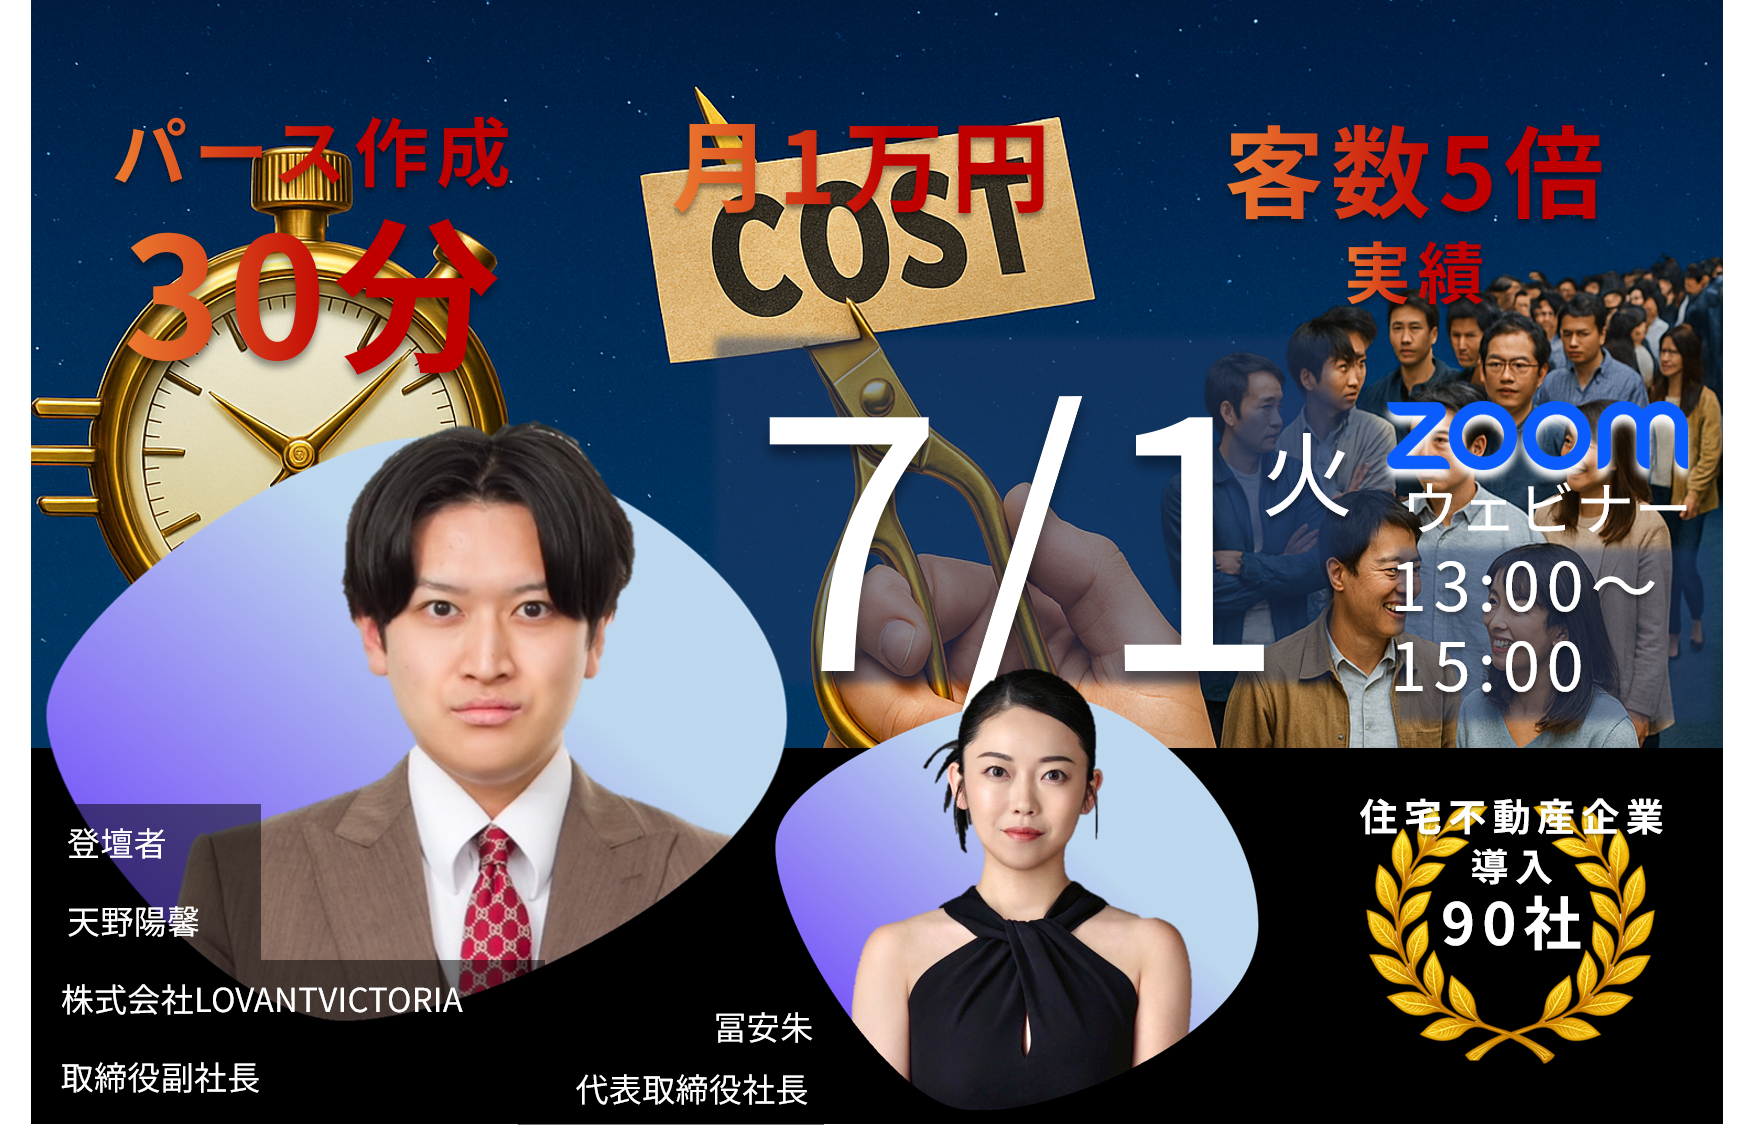
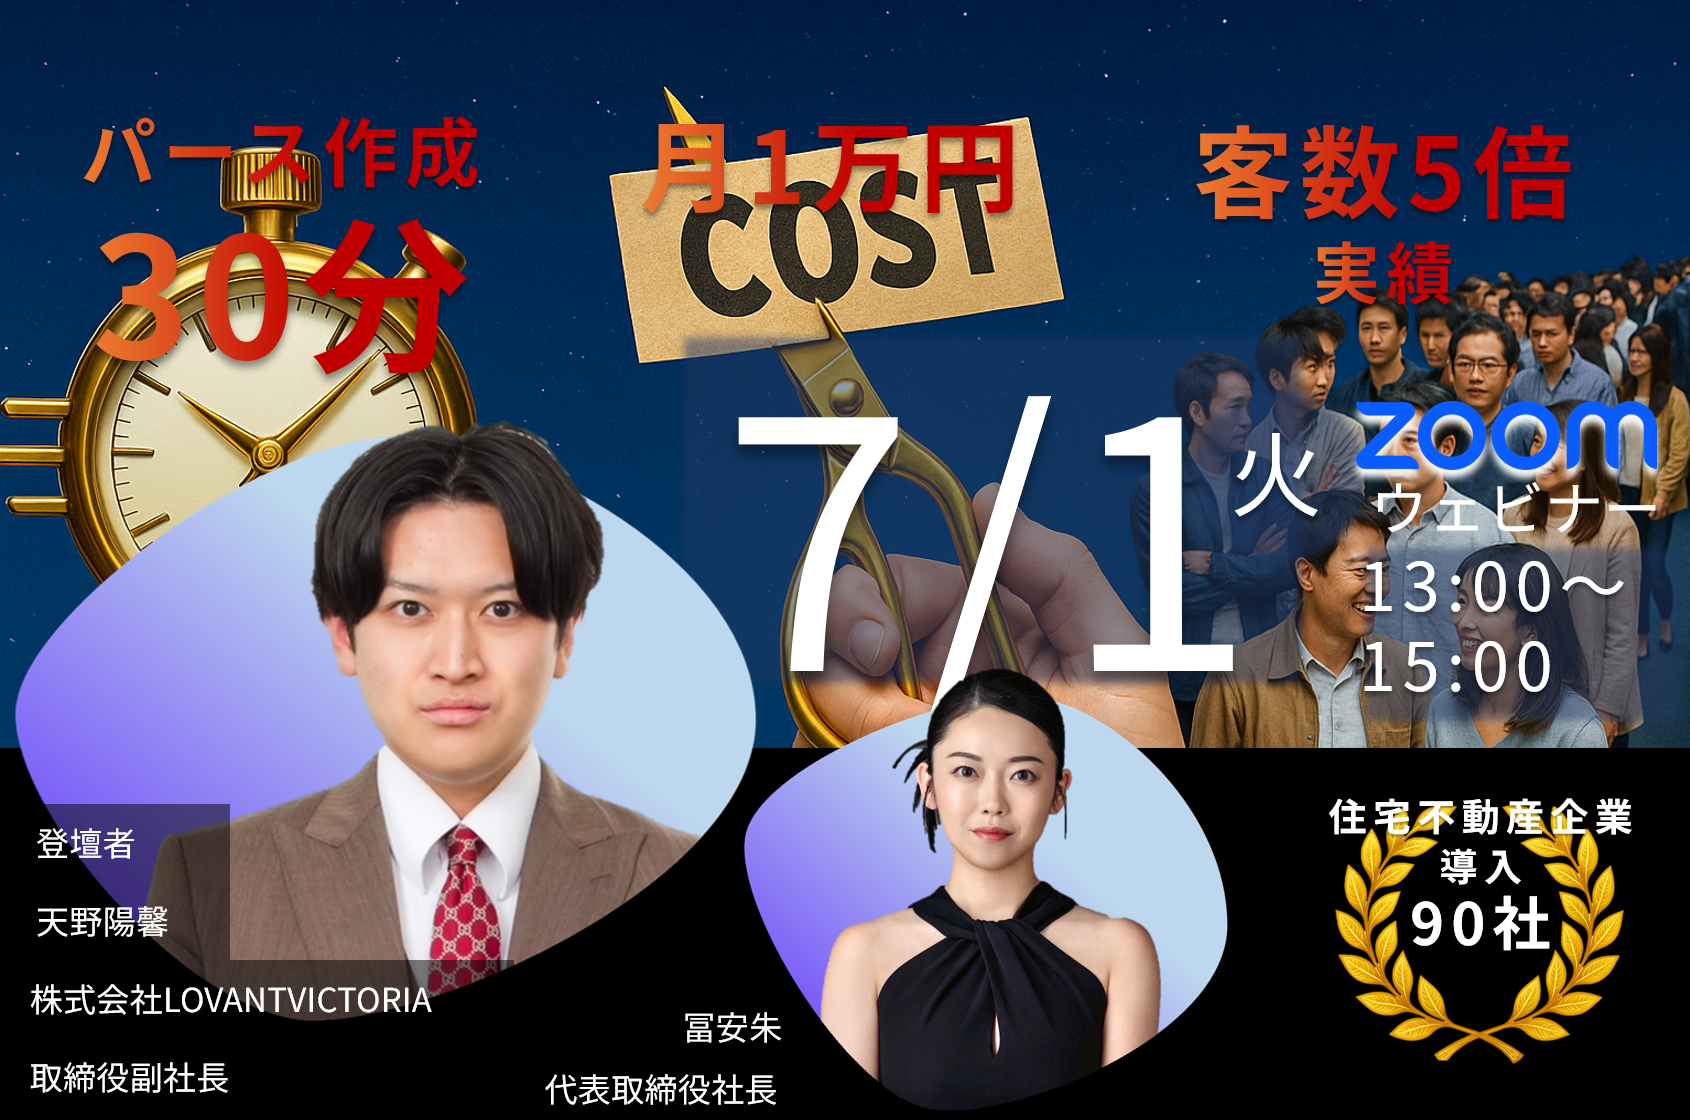
06271921

diff --git a/index.html b/index.html
@@ -47,6 +47,10 @@
             <div class="container">
                 <!--<p class="lead mb-4"><strong>生成AIにおける業務効率化を実現し、貴社の未来を劇的に変える2時間半。</strong></p>-->
                 
+                <div class="hero-images">
+                    <img src="img/top画像_left_top.png" alt="Left Top Image" class="hero-img-left img-fluid">
+                    <img src="img/top画像_right_bottom.png" alt="Right Bottom Image" class="hero-img-right img-fluid">
+                </div>
                 <h1 class="display-4 fw-bold mb-3">パース作成30分<br>客数5倍</h1>
                 <p class="lead mb-4"><strong>社長・決裁者様限定</strong></p>
                 <!--<p class="fs-5 fw-bold text-muted mb-5"><strong>【社長・決裁者様限定】</strong>今すぐ行動し、競合に差をつけましょう！</p>-->
@@ -115,10 +119,10 @@
                 <div class="row justify-content-center">
                     <div class="col-lg-10">
                         <ul class="list-group list-group-flush">
-                            <li class="list-group-item fs-5 py-3"><i class="fas fa-chalkboard-teacher text-primary me-3"></i><span class="fw-bold">第1 講座: 生成AIを活用したマーケティング業務改善</span><br><small class="ms-5">文章・画像生成AIで社内業務を10分の1に短縮！<br>講師：天野 陽馨（船井総合研究所・生成AIコンサルタント）</small></li>
-                            <li class="list-group-item fs-5 py-3"><i class="fas fa-cogs text-primary me-3"></i><span class="fw-bold">第2 講座: 生成AIでバックオフィス業務改善</span><br><small class="ms-5">データ入力・文書作成・メール応答・スケジュール管理などを劇的に効率化！<br>講師：青木 直哉（船井総合研究所・住宅不動産コンサルタント）</small></li>
-                            <li class="list-group-item fs-5 py-3"><i class="fas fa-lightbulb text-primary me-3"></i><span class="fw-bold">第3 講座: 生成AIにおける業務効率化の将来展望</span><br><small class="ms-5">AI発展予測と今、貴社がやるべき最重要施策を徹底解説！<br>講師：布井 翔一郎 氏（合同会社髙木秀太事務所・Noiスタジオ代表）</small></li>
-                            <li class="list-group-item fs-5 py-3"><i class="fas fa-rocket text-primary me-3"></i><span class="fw-bold">第4 講座: 生成AIを明日から使いこなすための実践導入ステップ</span><br><small class="ms-5">セミナー翌日から即実践！貴社のビジネスを加速させる具体的な導入手順！<br>講師：白戸 俊祐（船井総合研究所・集客強化エキスパート）</small></li>
+                            <li class="list-group-item fs-5 py-3"><i class="fas fa-chalkboard-teacher text-primary me-3"></i><span class="fw-bold">第1 講座: 生成AIを活用したマーケティング業務改善</span><br><small class="ms-5">文章・画像生成AIを活用し、企画書作成から広告文生成、SNS投稿まで、マーケティング業務を劇的に効率化する具体的な手法を解説。AIがどのようにクリエイティブ作業を加速させ、時間とコストを削減するのか、そのメカニズムと実践例を学びます。<br>講師：天野 陽馨（船井総合研究所・生成AIコンサルタント）</small></li>
+                            <li class="list-group-item fs-5 py-3"><i class="fas fa-cogs text-primary me-3"></i><span class="fw-bold">第2 講座: 生成AIでバックオフィス業務改善</span><br><small class="ms-5">データ入力、文書作成、メール応答、スケジュール管理など、日々のバックオフィス業務をAIで劇的に効率化するノウハウを公開。RPAとAIの連携による自動化事例や、AIを活用したデータ分析で経営判断を加速させる方法を習得します。<br>講師：青木 直哉（船井総合研究所・住宅不動産コンサルタント）</small></li>
+                            <li class="list-group-item fs-5 py-3"><i class="fas fa-lightbulb text-primary me-3"></i><span class="fw-bold">第3 講座: 生成AIにおける業務効率化の将来展望</span><br><small class="ms-5">AI技術の最新トレンドと今後の発展予測を深掘りし、貴社が今すぐ取り組むべき最重要施策を徹底解説。競合に差をつけるためのAI戦略立案、そして未来のビジネスモデルを構築するためのロードマップを提示します。<br>講師：布井 翔一郎 氏（合同会社髙木秀太事務所・Noiスタジオ代表）</small></li>
+                            <li class="list-group-item fs-5 py-3"><i class="fas fa-rocket text-primary me-3"></i><span class="fw-bold">第4 講座: 生成AIを明日から使いこなすための実践導入ステップ</span><br><small class="ms-5">セミナー翌日からすぐに実践できる、生成AI導入の具体的なステップを詳細に解説。ツールの選定から社内での運用体制構築、従業員への教育方法まで、貴社のビジネスを加速させるための実践的な導入手順を習得します。<br>講師：白戸 俊祐（船井総合研究所・集客強化エキスパート）</small></li>
                         </ul>
                     </div>
                 </div>
@@ -133,19 +137,19 @@
                 <h2 class="text-center fw-bold mb-5"><span class="text-primary">各分野のAIエキスパート</span>が登壇！<br>豪華<span class="text-primary">講師紹介</span></h2>
                 <div class="row justify-content-center g-5">
                     <div class="col-lg-5 text-center">
-                        <img src="img/天野楕円.png" class="rounded-circle mb-3" alt="天野" width="160">
+                        <img src="img/天野楕円.png" class="rounded-corners mb-3" alt="天野" width="320">
                         <h4 class="fw-bold">天野 陽馨</h4>
                         <p class="text-muted">大手コンサル会社生成AIコンサルタント</p>
                         <p>生成AIの最前線を走り、数々の企業のDXを成功に導く。特にマーケティング分野でのAI活用に精通し、実践的なノウハウを提供します。</p>
                     </div>
                     <div class="col-lg-5 text-center">
-                        <img src="img/冨安楕円.png" class="rounded-circle mb-3" alt="冨安" width="160">
+                        <img src="img/冨安楕円.png" class="rounded-corners mb-3" alt="冨安" width="320">
                         <h4 class="fw-bold">冨安 朱</h4>
                         <p class="text-muted">元芸能事務所経営</p>
                         <p>ファシリテーション</p>
                     </div>
                     <div class="col-lg-5 text-center mt-5">
-                        <img src="img/及川楕円.png" class="rounded-circle mb-3" alt="布井" width="160">
+                        <img src="img/及川楕円.png" class="rounded-corners mb-3" alt="布井" width="320">
                         <h4 class="fw-bold">及川 大智</h4>
                         <p class="text-muted">技術監修</p>
                         <p>人工知能業界10年の技術者。AIの活用法と法律面を担当</p>
@@ -162,8 +166,8 @@
                 <div class="row g-4">
                     <div class="col-md-6">
                         <div class="card h-100 shadow-sm">
-                            <div class="card-body d-flex">
-                                <img src="img/jirei_01.jpg" class="rounded-circle me-3" alt="参加者1" width="80" height="80">
+                            <div class="card-body d-flex flex-column align-items-center">
+                                <img src="img/jirei_01.jpg" class="rounded-corners mb-3" alt="参加者1" width="320" height="320">
                                 <div>
                                     <p class="card-text fst-italic">「AIの知識が全くない状態からの参加でしたが、専門用語を使わない丁寧な解説で、自分でもできると確信しました。特に、画像生成AIで広告用の画像を内製化できるという話は衝撃的で、早速自社で試しています。コスト削減とスピードアップが同時に実現でき、本当に感謝しています。」</p>
                                     <h6 class="card-title fw-bold mt-3">株式会社A様・代表取締役</h6>
@@ -173,8 +177,8 @@
                     </div>
                     <div class="col-md-6">
                         <div class="card h-100 shadow-sm">
-                            <div class="card-body d-flex">
-                                <img src="img/jirei_02.jpg" class="rounded-circle me-3" alt="参加者2" width="80" height="80">
+                            <div class="card-body d-flex flex-column align-items-center">
+                                <img src="img/jirei_02.jpg" class="rounded-corners mb-3" alt="参加者2" width="320" height="320">
                                 <div>
                                     <p class="card-text fst-italic">「これまで感覚に頼っていたマーケティングが、AIによってデータドリブンに進化しました。セミナーで学んだプロンプトを実践するだけで、ターゲット顧客に響くブログ記事を量産できるように。おかげで、Webからの問い合わせが前月比で200%を超え、嬉しい悲鳴を上げています。経営者仲間にも自信を持って勧められるセミナーです。」</p>
                                     <h6 class="card-title fw-bold mt-3">B建設株式会社様・マーケティング責任者</h6>

diff --git a/style.css b/style.css
@@ -181,59 +181,7 @@ header {
     color: var(--emphasis-color) !important;
 }
 
-/* Hero Section */
-#hero {
-    background-color: #e0f7fa; /* Light blue background */
-    padding: 0; /* パディングを削除 */
-    background-image: url('img/top画像01.png'); /* 背景画像を設定 */
-    background-size: contain; /* 画像をセクション全体に表示し、切り取らない */
-    background-position: center top; /* 画像を上部に配置 */
-    background-repeat: no-repeat; /* 画像の繰り返しを防止 */
-    min-height: 700px; /* PC表示での最小高さを設定 */
-}
 
-#hero img {
-    /* 既存のimgスタイルは不要になるため削除 */
-    display: none; /* 画像を非表示にする */
-}
-
-#hero .container {
-    padding-top: 80px; /* ヘッダーの高さ分のパディングを追加 */
-}
-
-#hero h1 {
-    font-size: 4rem;
-    line-height: 1.2;
-    margin-bottom: 25px;
-}
-
-#hero .lead {
-    font-size: 1.6rem;
-    margin-bottom: 30px;
-    font-weight: 500;
-}
-
-#hero .fs-5 {
-    font-size: 1.4rem !important;
-    color: #495057;
-}
-
-@media (max-width: 767.98px) {
-    #hero {
-        padding: 0;
-        position: relative; /* Enable absolute positioning for children */
-        min-height: 70vh; /* 縦長の画像が大きく表示されるように最小高さを設定 */
-        display: flex; /* Use flexbox to center content */
-        flex-direction: column; /* Stack content vertically */
-        justify-content: center; /* Center vertically */
-        align-items: center; /* Center horizontally */
-        overflow: hidden; /* Prevent content overflow */
-    }
-
-    #hero .lead {
-        font-size: 1.2rem; /* Adjust font size for mobile */
-    }
-}
 
 
 /* Recommend Section */
@@ -350,10 +298,14 @@ header {
 }
 
 #speakers img {
-    object-fit: cover;
     margin-bottom: 25px;
-    width: 180px;
-    height: 180px;
+}
+
+.rounded-corners {
+    object-fit: contain;
+    width: 320px;
+    height: 320px;
+    border-radius: 15px; /* 角丸の半径 */
 }
 
 #speakers h4 {
@@ -381,9 +333,7 @@ header {
     padding: 30px;
 }
 
-#testimonials img {
-    object-fit: cover;
-}
+
 
 #testimonials .card-text {
     font-size: 1.1rem;
@@ -587,6 +537,11 @@ footer a:hover {
         max-width: 70%; /* ブラウザ幅の70%に制限 */
         margin: 0 auto; /* 中央寄せ */
     }
+
+    .hero-img-left,
+    .hero-img-right {
+        margin: 0; /* PCでは画像をくっつける */
+    }
 }
 
 @media (max-width: 767.98px) {
@@ -597,9 +552,8 @@ footer a:hover {
     #hero {
         padding: 0; /* 上下の隙間をなくす */
         background-color: transparent !important; /* 背景色を透明に */
-        min-height: 100vh; /* 画面全体を覆うように高さを設定 */
-        background-image: url('img/top画像01.png'); /* 背景画像を設定 */
-        background-size: 100% auto; /* 画像の幅を100%に固定し、高さを自動調整 */
+        min-height: min-content; /* コンテンツの高さに合わせて自動調整 */
+        background-image: none; /* 背景画像を削除 */
         background-position: center top; /* 画像を上部に配置 */
         background-repeat: no-repeat; /* 画像の繰り返しを防止 */
         display: flex; /* Use flexbox to center content */
@@ -609,6 +563,8 @@ footer a:hover {
         overflow: hidden; /* Prevent content overflow */
         width: 100%; /* 幅を100%に設定 */
     }
+
+    
 
     #hero .container {
         width: 100%;
@@ -633,9 +589,9 @@ footer a:hover {
         font-size: 1rem;
     }
 
-    #speakers img {
-        width: 140px;
-        height: 140px;
+    .rounded-corners {
+        width: 280px;
+        height: 280px;
     }
 
     #speakers h4 {
